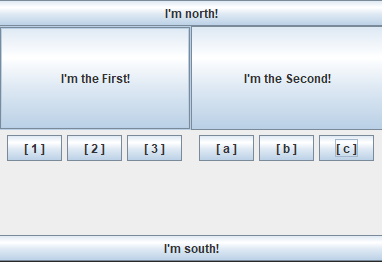
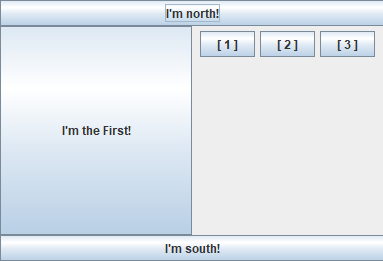
update image in README.md

diff --git a/frogui-debug/src/main/kotlin/io/github/muqhc/frogui/myapp2/MyApp2.kt b/frogui-debug/src/main/kotlin/io/github/muqhc/frogui/myapp2/MyApp2.kt
@@ -6,29 +6,25 @@ import javax.swing.JPanel
 
 fun main() {
     val panel = JPanel() borderLayout {
+        //add component to 'north'
         north = JButton("I'm north!")
 
-        center = gridLayout {
-            layout.rows = 2
+        //add component to 'south'
+        south = JButton("I'm south!")
+
+        //add component to 'center'
+        center = gridLayout { // add inner panel
             layout.columns = 2
 
+            //use 'unary plus' to add component
             +JButton("I'm the First!")
-            +JButton("I'm the Second!")
 
-            +flowLayout {
+            +flowLayout { // add inner panel
                 +JButton("[ 1 ]")
                 +JButton("[ 2 ]")
                 +JButton("[ 3 ]")
             }
-
-            +flowLayout {
-                +JButton("[ a ]")
-                +JButton("[ b ]")
-                +JButton("[ c ]")
-            }
         }
-
-        south = JButton("I'm south!")
     }
     panel.asFrame.run {
         title = "Hello Frogui!"

diff --git a/README.md b/README.md
@@ -25,32 +25,25 @@ JPanel().asFrame //or JPanel().toJFrame()
 ### build JPanel  (by using frogui dsl)
 ```kotlin
 val helloPanel = JPanel() borderLayout {
-
+    //add component to 'north'
     north = JButton("I'm north!")
+    
+    //add component to 'south'
+    south = JButton("I'm south!")
 
-    center = gridLayout {
-        layout.rows = 2
+    //add component to 'center'
+    center = gridLayout { // add inner panel
         layout.columns = 2
-        
+
         //use 'unary plus' to add component
         +JButton("I'm the First!")
-        +JButton("I'm the Second!")
 
-        +flowLayout {
+        +flowLayout { // add inner panel
             +JButton("[ 1 ]")
             +JButton("[ 2 ]")
             +JButton("[ 3 ]")
         }
-
-        +flowLayout {
-            +JButton("[ a ]")
-            +JButton("[ b ]")
-            +JButton("[ c ]")
-        }
     }
-
-    south = JButton("I'm south!")
-    
 }
 ```
 ![example_image.png](README_RESOURCES/example_image.png)
